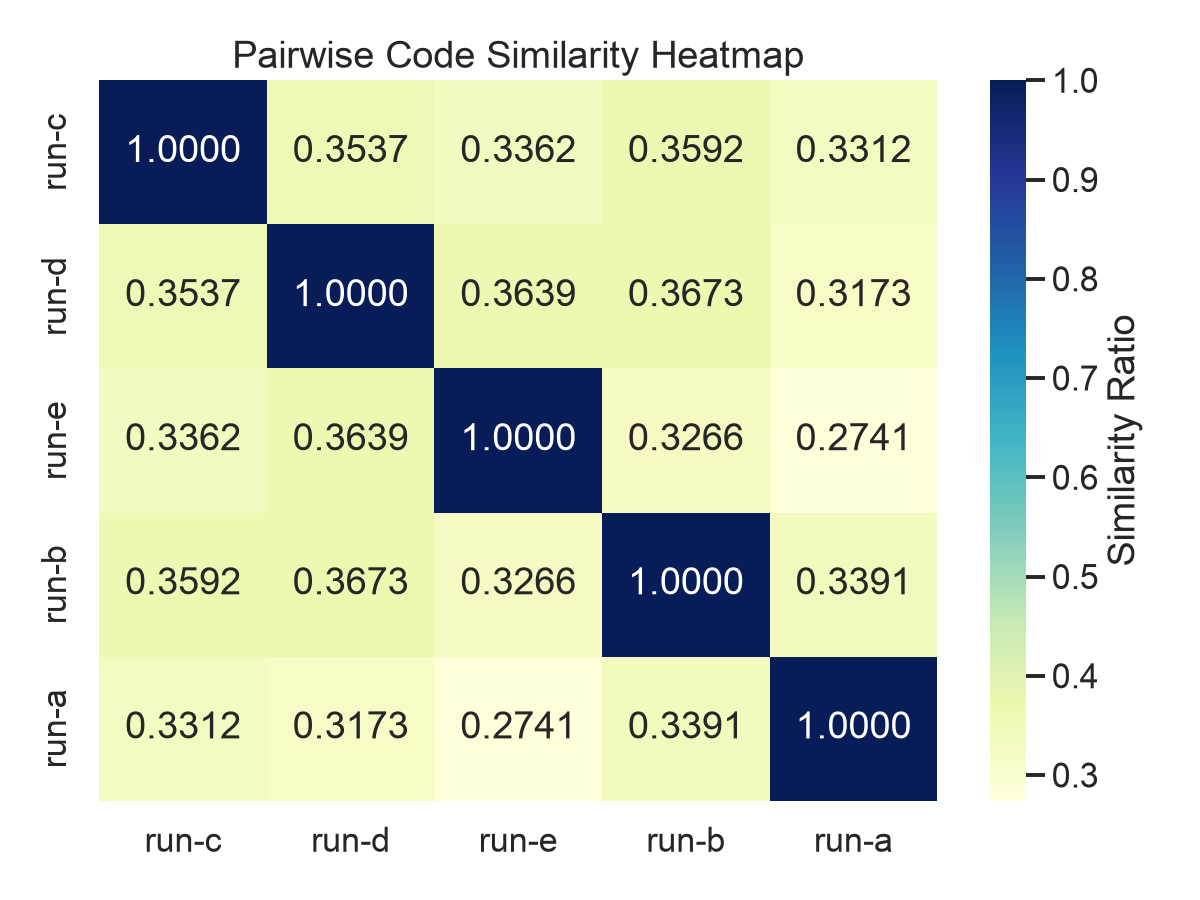
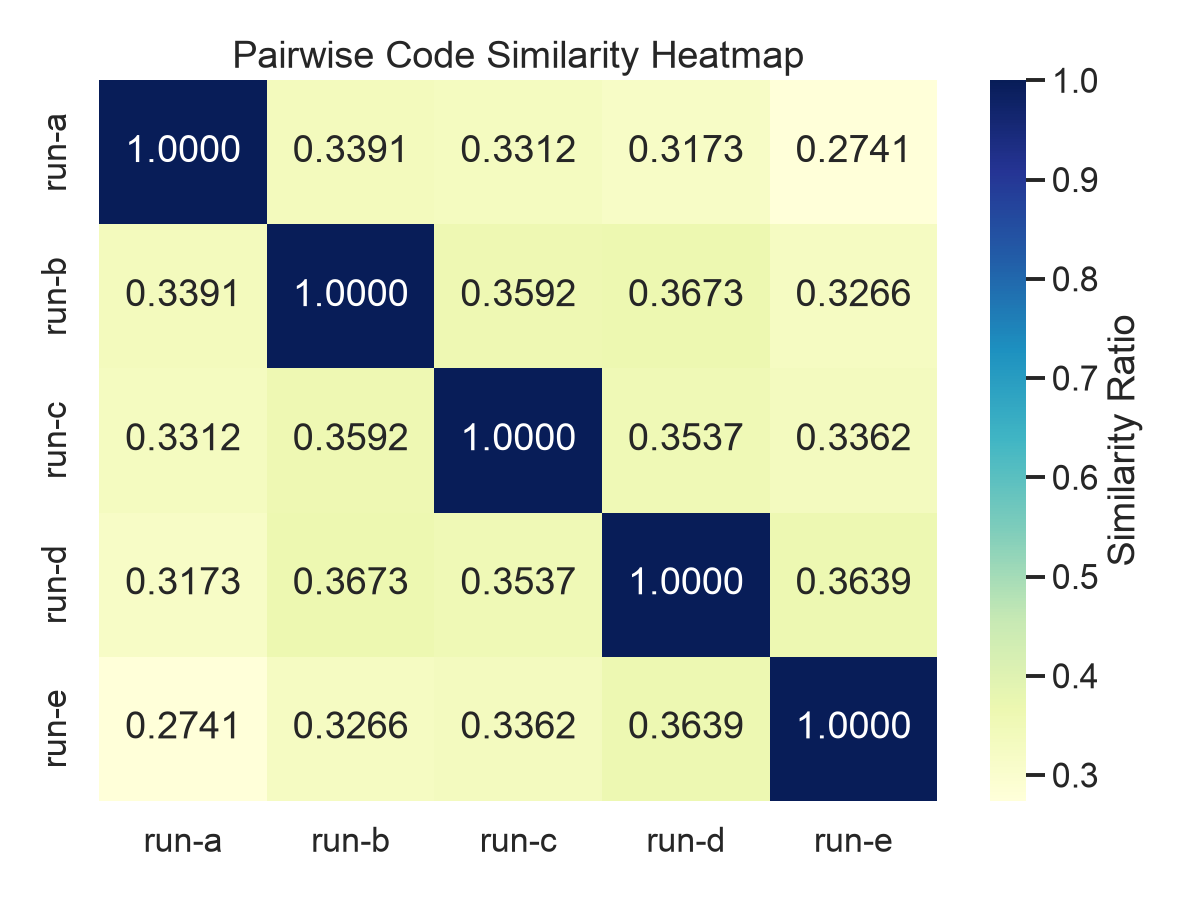
sorted and densify

diff --git a/analyze_manhattan.py b/analyze_manhattan.py
@@ -38,46 +38,24 @@ class File: src: Dir; path: Path; text: str
 @dataclass
 class AnalyzedFile: analyzer: str; tgt: File; metrics: dict[str, float]
 
-# HTML Parser to extract JS blocks
-class SCRIPTExtractor(HTMLParser):
-    def __init__(self):
-        super().__init__()
-        self.in_script = False
-        self.current_type = None
-        self.scripts = []
-        self.current_data = []
-
-    def handle_starttag(self, tag, attrs):
-        if tag.lower() == "script":
-            self.in_script = True
-            attrs_dict = dict(attrs)
-            self.current_type = attrs_dict.get("type", "").lower()
-            self.current_data = []
-
-    def handle_data(self, data):
-        if self.in_script:
-            self.current_data.append(data)
-
-    def handle_endtag(self, tag):
-        if tag.lower() == "script":
-            if self.in_script and self.current_type != "importmap":
-                self.scripts.append("".join(self.current_data))
-            self.in_script = False
-            self.current_type = None
+class Extractor(HTMLParser):  # extract `tags` from html file
+    def __init__(self, tags: list): super().__init__(); self.tags, self.res, self.on, self.t, self.d = tags, [], 0, "", []
+    def handle_starttag(self, t, a):
+        if t in self.tags: self.on, self.t, self.d = 1, dict(a).get("type", "").lower(), []
+    def handle_data(self, d): self.on and self.d.append(d)
+    def handle_endtag(self, t):
+        if t in self.tags: self.t == "importmap" or self.res.append("".join(self.d)); self.on = 0
 
 def extract_js_from_file(file: File) -> str:
     """Extracts raw JS from a JS file or JS script blocks from an HTML file."""
-    if file.path.suffix == ".js":
-        return file.text
-    extractor = SCRIPTExtractor()
-    extractor.feed(file.text)
-    return "\n".join(extractor.scripts)
+    if file.path.suffix == ".js": return file.text
+    extractor = Extractor(["script"]); extractor.feed(file.text)
+    return "\n".join(extractor.res)
 
 def analyze_highlevel(file: File) -> AnalyzedFile:
     """high-level text metrics: length, number of comments, number of LOCs."""
     js_code = extract_js_from_file(file)
-    # Regex to match strings, regexes, and comments without overlapping.
-    pattern = re.compile(
+    pattern = re.compile(  # match strings, regexes, comments wout overlapping.
         r'(\"(?:[^\"\\\\]|\\\\.)*\")|'
         r'(\'(?:[^\'\\\\]|\\\\.)*\')|'
         r'(\`(?:[^\`\\\\]|\\\\.)*\`)|'
@@ -145,40 +123,30 @@ def analyze_linter(file: File) -> AnalyzedFile:
 
 def visualize_similarity(dirs: list[Dir]) -> plt.Figure:
     """Computes pairwise trigram Jaccard similarities and plots a heatmap."""
-    runs = [d.src.name for d in dirs]
+    runs = sorted(d.src.name for d in dirs)
     n = len(dirs)
     matrix = np.ones((n, n))
-    
-    # Pre-extract full JS codebase per folder
     js_by_dir = {}
     for d in dirs:
-        # Concatenate JS from all files in the directory
         js_texts = []
         # Sort files to ensure deterministic concatenation order
-        sorted_files = sorted(d.files, key=lambda f: f.path)
-        for f in sorted_files:
+        for f in sorted(d.files, key=lambda f: f.path):
             js_texts.append(extract_js_from_file(f))
         js_by_dir[d.src.name] = "\n".join(js_texts)
-        
     print("\nCalculating pairwise trigram Jaccard similarities...")
     for i in range(n):
         for j in range(i + 1, n):
             run_i, run_j = runs[i], runs[j]
-            
             def get_trigrams(text: str) -> set[str]:
                 clean = "".join(text.split())
                 return {clean[idx:idx+3] for idx in range(len(clean) - 2)}
-                
             t1 = get_trigrams(js_by_dir[run_i])
             t2 = get_trigrams(js_by_dir[run_j])
             ratio = len(t1 & t2) / len(t1 | t2) if (t1 or t2) else 0.0
-            
             matrix[i, j] = ratio
             matrix[j, i] = ratio
             print(f"  {run_i} vs {run_j}: {ratio:.4f}")
-            
     df = pd.DataFrame(matrix, index=runs, columns=runs)
-    
     fig, ax = plt.subplots(figsize=(8, 6))
     sns.heatmap(df, annot=True, cmap="YlGnBu", fmt=".4f", cbar_kws={'label': 'Similarity Ratio'}, ax=ax)
     ax.set_title("Pairwise Code Similarity Heatmap")
@@ -197,21 +165,16 @@ def visualize_highlevel(analyzed_files: list[AnalyzedFile]) -> plt.Figure:
             "comments": af.metrics["comments"],
             "loc": af.metrics["loc"]
         })
-        
     df = pd.DataFrame(data).groupby("run").sum().reset_index()
-    # Sort by run name to ensure run-a, run-b, run-c, run-d, run-e ordering
     df = df.sort_values("run")
-    
-    # Melt for seaborn grouped plot
-    df_melt = df.melt(id_vars="run", value_vars=["length", "comments", "loc"], 
-                      var_name="metric", value_name="count")
-                      
+    df_melt = df.melt(  # for seaborn grouped plot
+        id_vars="run", value_vars=["length", "comments", "loc"],
+        var_name="metric", value_name="count")
     fig, ax = plt.subplots(figsize=(10, 6))
     sns.barplot(data=df_melt, x="run", y="count", hue="metric", ax=ax, palette="muted")
     ax.set_yscale("log")  # Log scale since length and comments/LOC are orders of magnitude apart
     ax.set_title("High-level Code Metrics by Run (Log Scale)")
-    ax.set_ylabel("Count")
-    ax.set_xlabel("Fable Level Run")
+    ax.set_ylabel("Count"); ax.set_xlabel("Fable Level Run")
     plt.tight_layout()
     return fig
 
@@ -226,13 +189,11 @@ def visualize_linter(analyzed_files: list[AnalyzedFile]) -> plt.Figure:
             "warnings": af.metrics["warnings"],
             "inconsistencies": af.metrics["inconsistencies"]
         })
-        
     df = pd.DataFrame(data).groupby("run").sum().reset_index()
     df = df.sort_values("run")
-    
-    df_melt = df.melt(id_vars="run", value_vars=["errors", "warnings", "inconsistencies"], 
-                      var_name="metric", value_name="count")
-                      
+    df_melt = df.melt(
+        id_vars="run", value_vars=["errors", "warnings", "inconsistencies"],
+        var_name="metric", value_name="count")
     fig, ax = plt.subplots(figsize=(10, 6))
     sns.barplot(data=df_melt, x="run", y="count", hue="metric", ax=ax, palette="deep")
     ax.set_title("Linter Metrics by Run")
@@ -245,8 +206,7 @@ if __name__ == "__main__":
     parser = argparse.ArgumentParser()
     parser.add_argument("--ind", default=".")
     parser.add_argument("--out", default="out/")
-    args = parser.parse_args()
-    based = Path(args.ind); outd = Path(args.out)
+    args = parser.parse_args(); based = Path(args.ind); outd = Path(args.out)
     dirs = []
     for run_path in based.glob("run-*"):
         d = Dir(src=run_path)
@@ -258,7 +218,6 @@ if __name__ == "__main__":
             f = File(src=d, path=file_path, text=text)
             d.files.append(f)
         dirs.append(d)
-
     highlevel_results = []
     linter_results = []
     print("\nAnalyzing code files...")